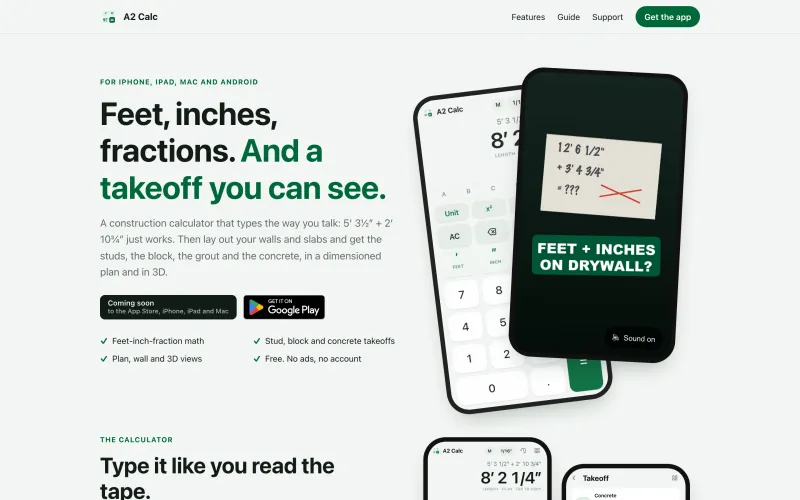
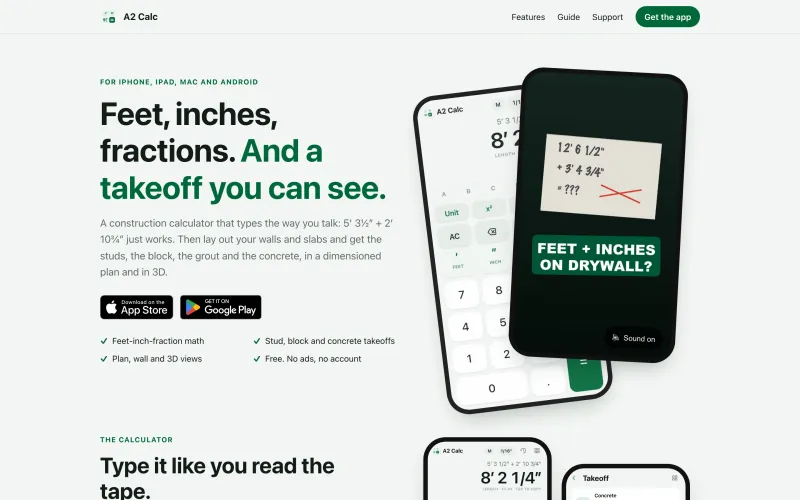
Phone frames: scale with their width; A2 Calc on the App Store
- The phone frame's corners, bezel and notch were fixed pixels, so a
  small frame on a phone turned into a pill. Corners are now
  horizontal/vertical percentages, the bezel is the screenshot's
  percentage margin and the notch is sized off the frame's width.
- A2 Calc is out on the App Store: badge and QR code next to Google
  Play, "coming soon" dropped, llms.txt updated, and fresh captures
  of calc.a2cons.com for the portfolio card.

Claude-Session: https://claude.ai/code/session_012cbtMP4PKFxgYyhK3oRstV

Changed region(s): [[0.125, 0.57, 0.4062, 0.66]]

diff --git a/src/styles/global.css b/src/styles/global.css
@@ -607,26 +607,33 @@ h4 {
 .phone {
   position: relative;
   margin: 0;
-  padding: 9px;
-  border-radius: 38px;
+  /* Everything scales with the frame's width, so a small phone keeps its
+     shape: horizontal / vertical radii for a frame about 0.46 as wide as
+     tall, and the notch sized off the width. The bezel is the screen's
+     margin, since a percentage margin of a child is measured against
+     this frame (padding would be measured against the frame's parent). */
+  padding: 0;
+  border-radius: 16% / 7.4%;
   background: #101315;
   box-shadow: var(--shadow-md), inset 0 0 0 1.5px #3a4044;
 }
 
 .phone img {
-  width: 100%;
-  border-radius: 30px;
+  display: block;
+  width: 94%;
+  margin: 3%;
+  border-radius: 13.5% / 6.2%;
   background: #eef1ed;
 }
 
 .phone-notch {
   position: absolute;
-  top: 18px;
+  top: 3%;
   left: 50%;
   width: 28%;
-  height: 18px;
+  aspect-ratio: 3.7;
   transform: translateX(-50%);
-  border-radius: 12px;
+  border-radius: 999px;
   background: #101315;
   z-index: 1;
 }
@@ -1106,12 +1113,6 @@ h4 {
 }
 
 /* App store badges with QR codes */
-.store-soon {
-  align-self: center;
-  max-width: 180px;
-  font-size: 14px;
-  color: var(--soft);
-}
 
 .stores {
   display: flex;
@@ -1189,20 +1190,12 @@ h4 {
   right: 0;
   bottom: 0;
   width: 22%;
-  padding: 6px;
-  border-radius: 24px;
 }
 
 .site-phone img {
-  border-radius: 19px;
   aspect-ratio: 390 / 844;
   object-fit: cover;
   object-position: top;
-}
-
-.site-phone .phone-notch {
-  top: 11px;
-  height: 11px;
 }
 
 .site-copy {
@@ -2007,16 +2000,5 @@ h4 {
 
   .art-calc .phone {
     width: 38%;
-    padding: 5px;
-    border-radius: 24px;
-  }
-
-  .art-calc .phone img {
-    border-radius: 19px;
-  }
-
-  .art-calc .phone-notch {
-    top: 9px;
-    height: 9px;
   }
 }
